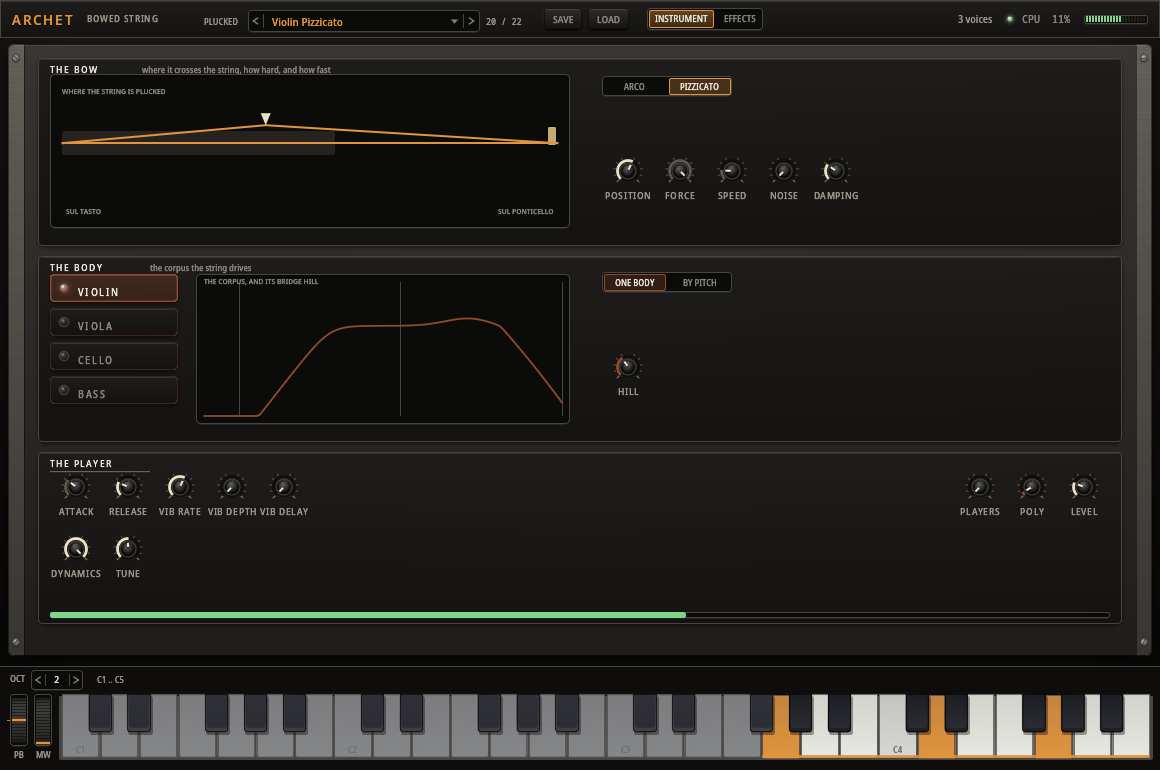
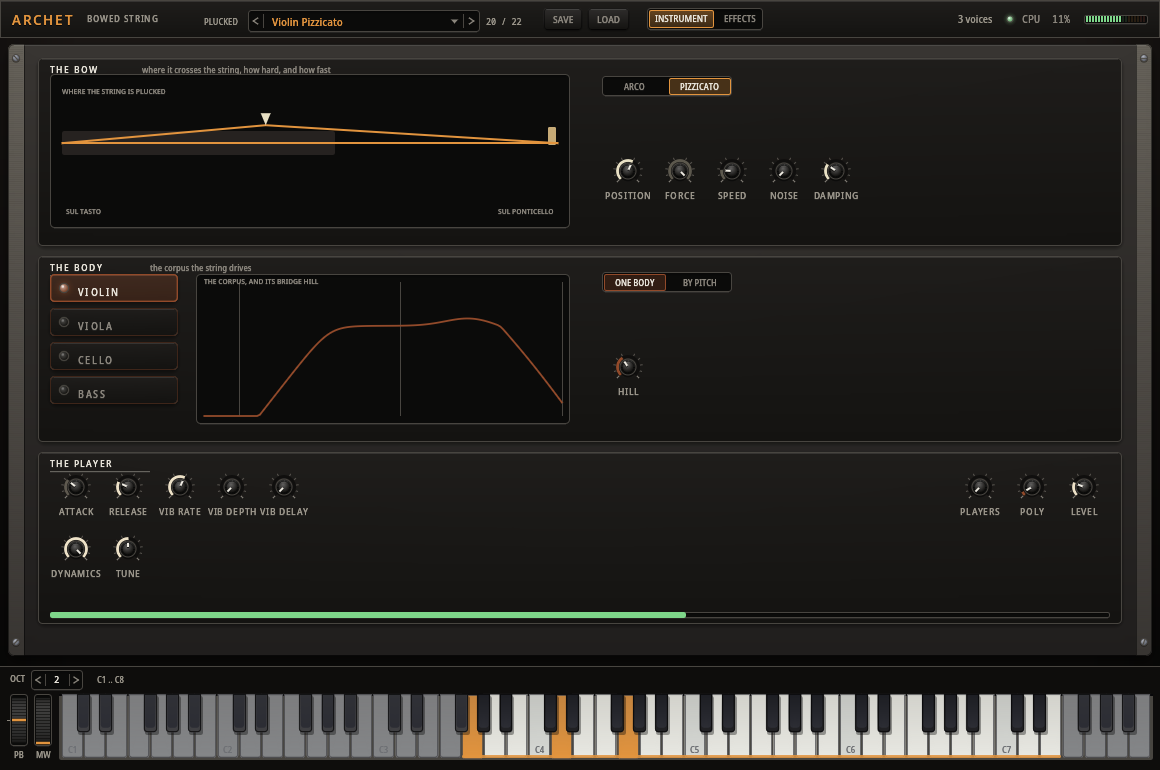
fix: the keyboard's wheel bends as far as the host
The editor's pitch-bend wheel and the host's pitch bend both reach
BEND_SEMITONES, the range the shared keyboard states. The screenshots
show the keyboard filling the window's width.

Changed region(s): [[0.0621, 0.9039, 0.9931, 0.9974]]

diff --git a/crates/archet-ui/src/app.rs b/crates/archet-ui/src/app.rs
@@ -13,7 +13,7 @@ use archet::{ArchetCommand, ArchetMeterState};
 use phonix_plugin::preset::Preset;
 use phonix_rt::SharedReader;
 use phonix_ui::chrome::{plugin_chrome_panel, PillEntry, PluginChrome};
-use phonix_ui::keyboard::{keyboard_ui, KeyEvent, KeyboardState, KeyboardStyle};
+use phonix_ui::keyboard::{keyboard_ui, KeyEvent, KeyboardState, KeyboardStyle, BEND_SEMITONES};
 use phonix_ui::preset_picker::{NamedPreset, PresetPickerState};
 use phonix_ui::widgets;
 
@@ -294,7 +294,7 @@ impl ArchetApp {
                     let cmd = match ev {
                         KeyEvent::On { note, velocity } => ArchetCommand::NoteOn(note, velocity),
                         KeyEvent::Off { note } => ArchetCommand::NoteOff(note),
-                        KeyEvent::PitchBend(v) => ArchetCommand::PitchBend(v),
+                        KeyEvent::PitchBend(v) => ArchetCommand::PitchBend(v * BEND_SEMITONES),
                         KeyEvent::ModWheel(v) => ArchetCommand::ModWheel(v),
                     };
                     let _ = self.tx.send(cmd);

diff --git a/crates/archet-plugin/src/lib.rs b/crates/archet-plugin/src/lib.rs
@@ -18,6 +18,7 @@ mod fx;
 use fx::FxLink;
 use phonix_fx::{Chain, ChainSpec, Musical, Transport};
 use phonix_dsp::fader::Fader;
+use phonix_ui::keyboard::BEND_SEMITONES;
 
 use archet::engine::{ArchetCommand, ArchetEngine, ArchetMeterState};
 use archet::patch::{ArchetPatch, Instrument};
@@ -640,7 +641,7 @@ impl Plugin for ArchetPlugin {
                     let _ = tx.send(ArchetCommand::NoteOff(note));
                 }
                 NoteEvent::MidiPitchBend { value, .. } => {
-                    let semitones = (value - 0.5) * 4.0;   // +/-2 semitones
+                    let semitones = (value - 0.5) * 2.0 * BEND_SEMITONES;
                     let _ = tx.send(ArchetCommand::PitchBend(semitones));
                 }
                 NoteEvent::MidiCC { cc: 1, value, .. } => {
